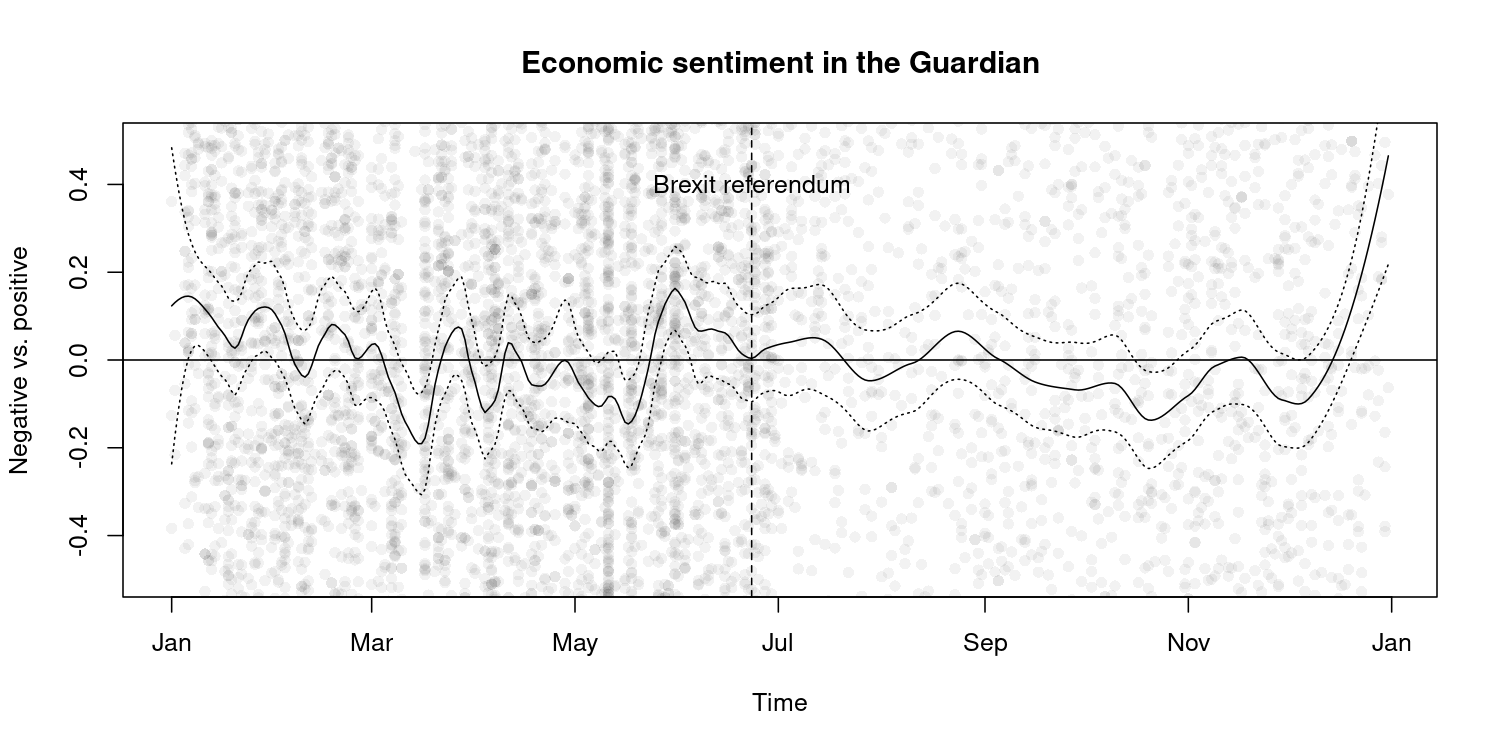
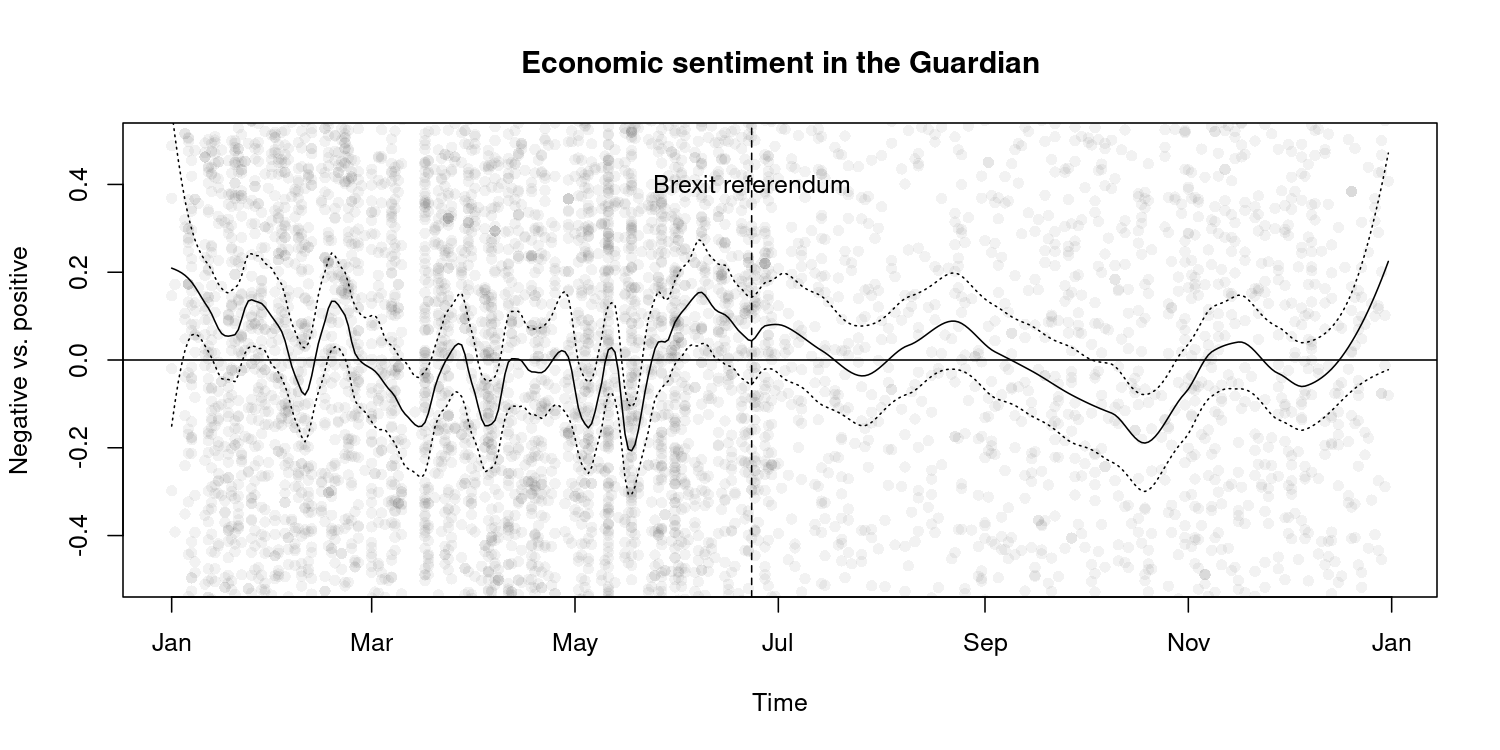
Knit

diff --git a/README.md b/README.md
@@ -87,7 +87,7 @@ lss <- textmodel_lss(dfmt_sent, as.seedwords(data_dictionary_sentiment),
                      terms = eco, k = 300, cache = TRUE)
 ```
 
-    ## Writing cache file: lss_cache/svds_0d423b4ea615ab8a.RDS
+    ## Writing cache file: lss_cache/svds_42bac24341f7ddce.RDS
 
 ### Sentiment seed words
 
@@ -112,23 +112,23 @@ to seed words.
 head(coef(lss), 20) # most positive words
 ```
 
-    ##       shape    positive sustainable   expecting    emerging      decent 
-    ##  0.08100301  0.07287992  0.06489614  0.06459612  0.06173428  0.06158674 
-    ## challenging        asia  powerhouse        drag      argued       china 
-    ##  0.05735492  0.05545359  0.05454087  0.05430134  0.05425140  0.05269536 
-    ##         hit       stock   weakening consultancy cooperation  principles 
-    ##  0.05213953  0.05177975  0.05153202  0.05108261  0.05068110  0.04953984 
-    ##     markets       larry 
-    ##  0.04940963  0.04937380
+    ##        good       shape    positive sustainable   expecting      remain 
+    ##  0.10086678  0.08100301  0.07287992  0.06489614  0.06459612  0.06327885 
+    ##    emerging      decent   continued challenging        asia  powerhouse 
+    ##  0.06173428  0.06158674  0.05958519  0.05735492  0.05545359  0.05454087 
+    ##        drag      argued       china         hit       stock       start 
+    ##  0.05430134  0.05425140  0.05269536  0.05213953  0.05177975  0.05162649 
+    ##   weakening consultancy 
+    ##  0.05153202  0.05108261
 
 ``` r
 tail(coef(lss), 20) # most negative words
 ```
 
-    ##       yellen    reduction       shocks         rise      cutting        grows 
-    ##  -0.06807648  -0.06932724  -0.06945467  -0.07106325  -0.07389086  -0.07568230 
-    ##       shrink implications         debt policymakers    suggested     interest 
-    ##  -0.07626922  -0.07767036  -0.07896652  -0.07970222  -0.08267444  -0.08631343 
+    ##      raising         rise     sterling      cutting        grows       shrink 
+    ##  -0.07002333  -0.07106325  -0.07220668  -0.07389086  -0.07568230  -0.07626922 
+    ## implications        basic         debt policymakers    suggested     interest 
+    ##  -0.07767036  -0.07848986  -0.07896652  -0.07970222  -0.08267444  -0.08631343 
     ## unemployment    borrowing         hike         rate          rba        rates 
     ##  -0.08879022  -0.09109017  -0.09224650  -0.09598675  -0.09672486  -0.09754047 
     ##          cut     negative 
